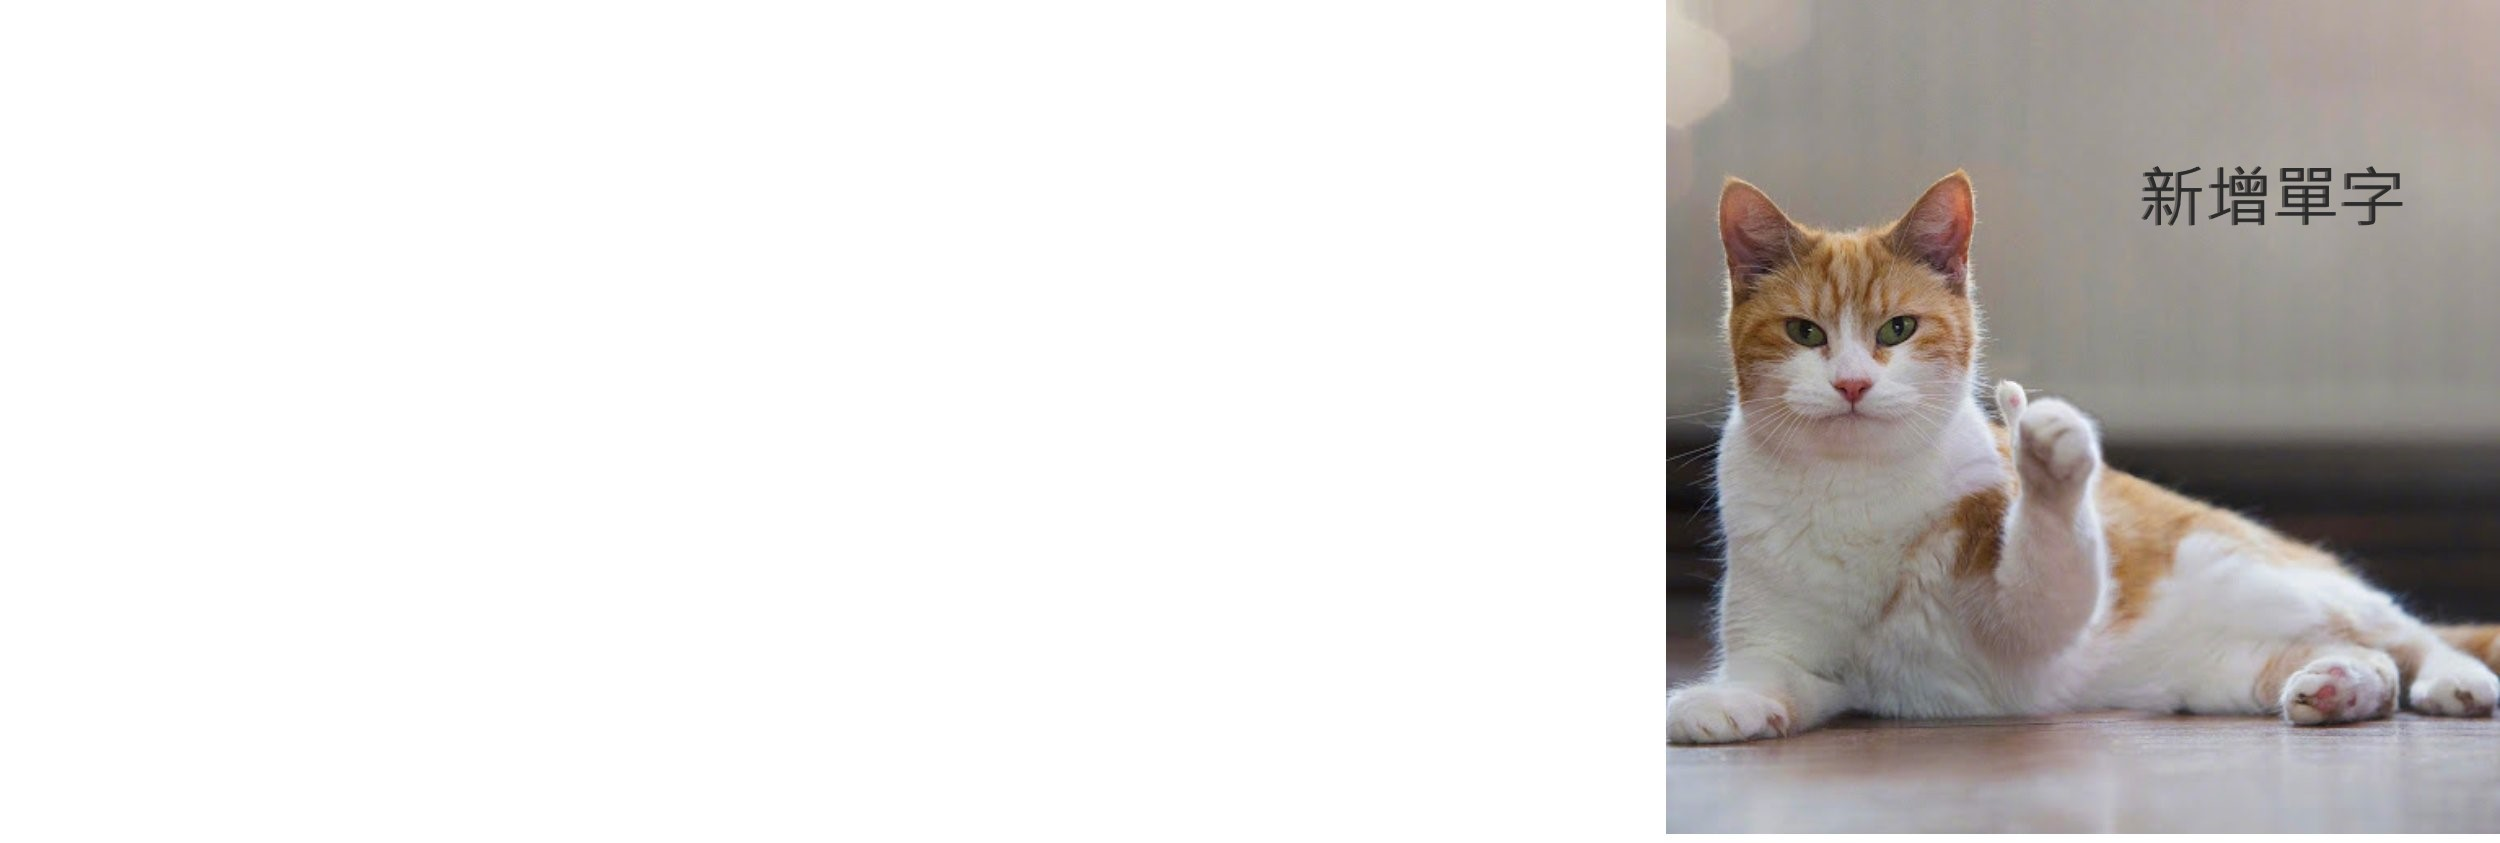
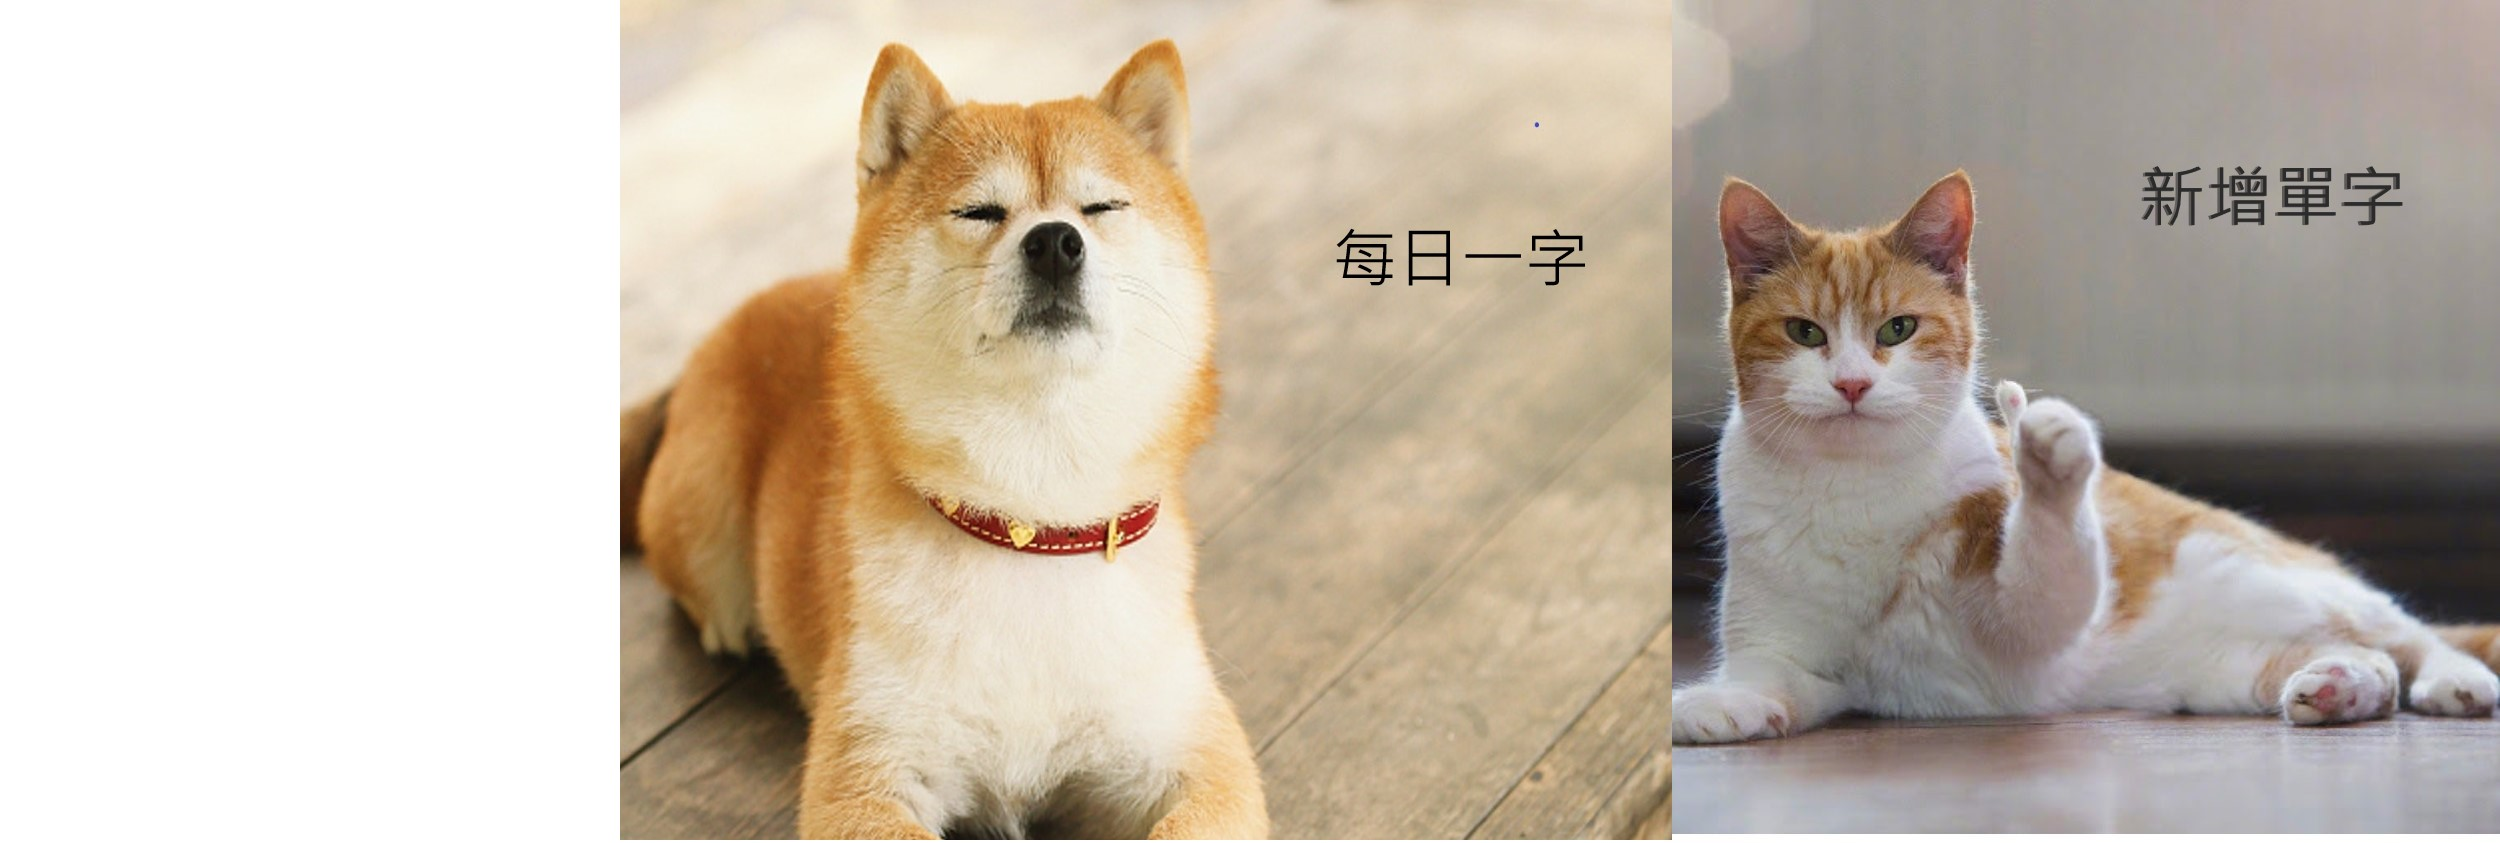
make it better

diff --git a/app.py b/app.py
@@ -36,8 +36,8 @@ if channel_access_token is None:
 line_bot_api = LineBotApi(channel_access_token)
 parser = WebhookParser(channel_secret)
 handler = WebhookHandler(channel_secret)
-#圖文選單
 
+#圖文選單
 img_path="richmenu_1583498398759.jpg"
 content_type = "image/jpeg"
 rich_menu_to_create = RichMenu(
@@ -47,7 +47,11 @@ rich_menu_to_create = RichMenu(
     chat_bar_text="Tap here",
     areas=[RichMenuArea(
         bounds=RichMenuBounds(x=1650, y=0, width=843, height=843),
-        action=PostbackAction(label='新增單字', data='addvoc'))]
+        action=PostbackAction(label='新增單字', data='addvoc')),
+        RichMenuArea(
+        bounds=RichMenuBounds(x=800, y=0, width=843, height=843),
+        action=PostbackAction(label='每日一字', data='word'))]
+    
 )
 richmenu_id = line_bot_api.create_rich_menu(rich_menu=rich_menu_to_create)
 with open(img_path, 'rb') as f:
